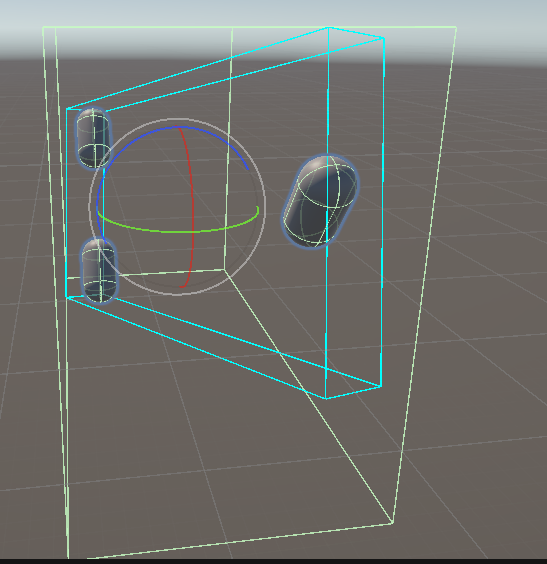
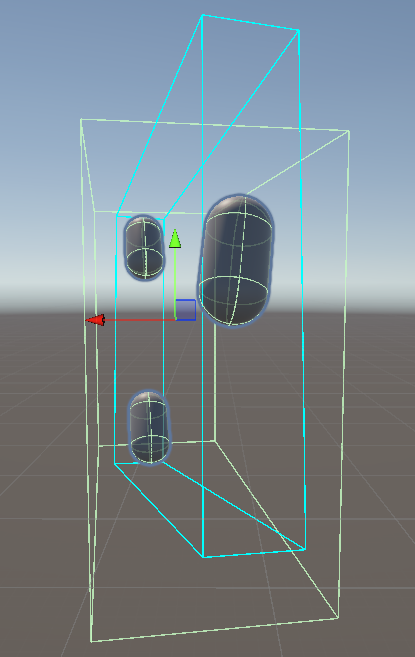
Better photo comparison, old script encapsulated the objects by taking into account the OBB we generate also, producing wrong results.
the previous script was taking into account the Generated OBB, the new comparison photo serves the comparison much better (default box collider encapsulating the collection versus the custom obb we generate).

diff --git a/CombinedBoxCollider.cs b/CombinedBoxCollider.cs
@@ -58,7 +58,7 @@ public class CombinedBoxCollider : MonoBehaviour
         Transform[] children = GetComponentsInChildren<Transform>();
         if (children.Length - 1 != previousChildPositions.Length) return true;
 
-        for (int i = 0; i < children.Length; i++)
+        for (int i = 0; i < children.Length - 1; i++)
         {
             if (children[i] == transform) continue;
             int index = System.Array.IndexOf(children, children[i]) - 1;
@@ -80,7 +80,7 @@ public class CombinedBoxCollider : MonoBehaviour
 
         foreach (Transform child in GetComponentsInChildren<Transform>())
         {
-            if (child == transform) continue;
+            if (child == transform || child.name == "Dynamic OBB") continue;
             positions.Add(child.position);
             scales.Add(child.localScale);
             rotations.Add(child.rotation);
@@ -101,6 +101,7 @@ public class CombinedBoxCollider : MonoBehaviour
         // Collect bounds from all Renderers and Colliders in children
         foreach (Renderer renderer in GetComponentsInChildren<Renderer>())
         {
+            if (renderer.gameObject.name == "Dynamic OBB") continue; // Skip the Dynamic OBB object
             if (!hasBounds)
             {
                 totalBounds = renderer.bounds;
@@ -114,7 +115,7 @@ public class CombinedBoxCollider : MonoBehaviour
 
         foreach (Collider collider in GetComponentsInChildren<Collider>())
         {
-            if (collider == boxCollider) continue; // Skip the parent's collider
+            if (collider == boxCollider || collider.name == "Dynamic OBB") continue; // Skip the parent's collider
 
             if (!hasBounds)
             {
